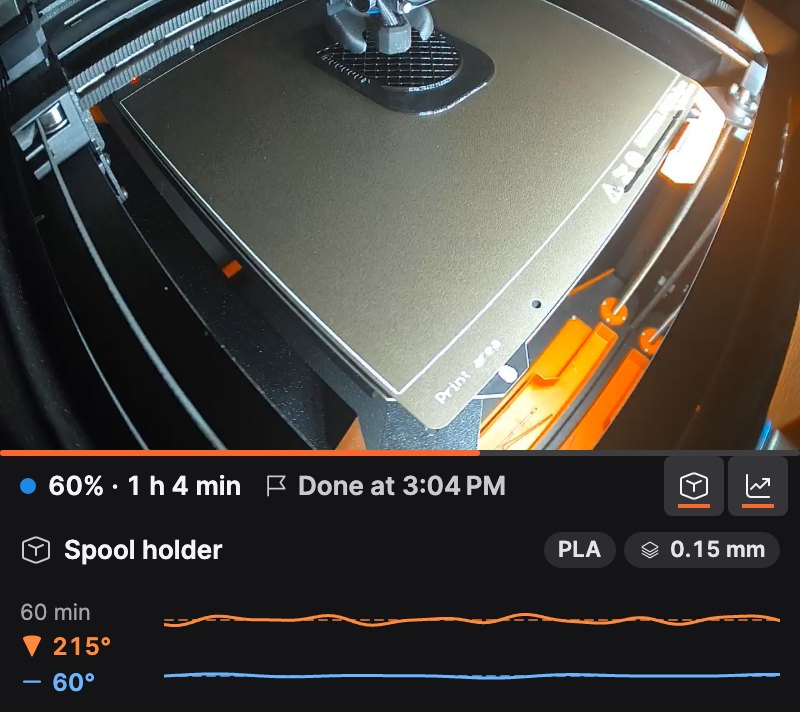
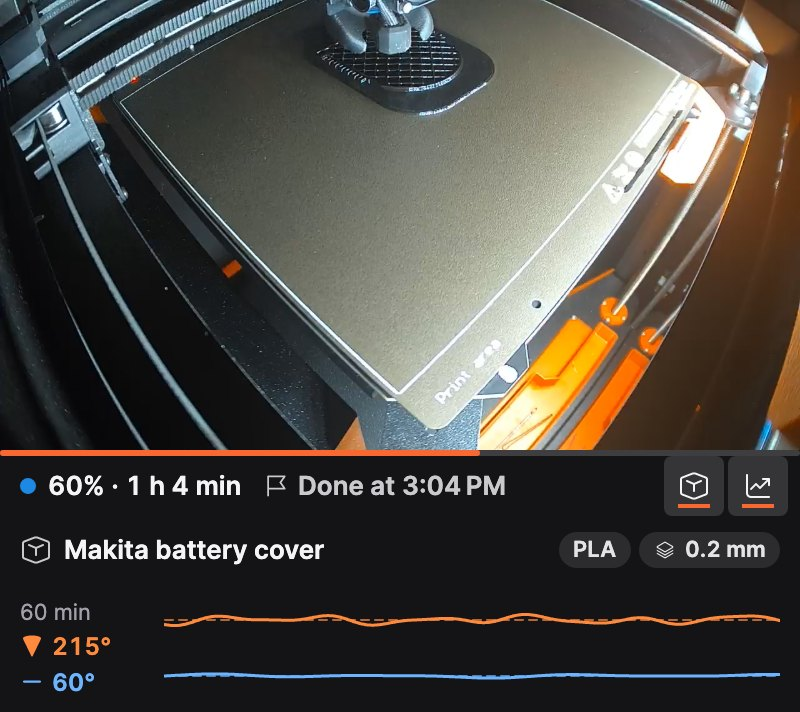
README screenshots: Makita battery cover print, layout mode without Cool-down
- The print of the scenario is the Makita battery cover the recorded camera
  actually shows (makita-battery-cover_0.4n_0.2mm_PLA_COREONE_2h41m.bgcode,
  same in every language), with the simulator's orange flat-disc preview.
- The layout mode image hides the Cool-down widget, which has nothing to show
  while printing (no empty placeholder card).
- Regenerated all images (EN + CS); docs/readme-screenshots.md updated.

Changed region(s): [[0.0625, 0.7416, 0.4062, 0.8034], [0.6875, 0.7416, 0.9062, 0.8034]]

diff --git a/tests/LayerPeek.App.UiTests/Readme/ReadmeScenario.cs b/tests/LayerPeek.App.UiTests/Readme/ReadmeScenario.cs
@@ -64,12 +64,18 @@ internal static class ReadmeScenario
     public static TimeZoneInfo TimeZone => LayerPeek.App.Tests.Diagnostics.FixedClock.Zone;
 
     /// <summary>
-    /// The print file: the simulator's spool holder (PLA, 0.15 mm), a flat part like the one the recorded camera shows
-    /// under the nozzle.
+    /// The print file: the cover of the Makita battery slot, the flat part the recorded camera shows under the nozzle
+    /// (PLA, 0.2 mm). The same file name in every language.
     /// </summary>
-    public static SimulatedFile File { get; } = PrinterSimulation.AllFiles.Single(static file => file.DisplayName.StartsWith("spool-holder", StringComparison.Ordinal));
+    public const string FileName = "makita-battery-cover_0.4n_0.2mm_PLA_COREONE_2h41m.bgcode";
 
-    private static string PreviewPath => "usb/" + File.Name;
+    /// <summary>
+    /// The G-code preview of the print: the one the simulator generates for its first file (a flat disc in Prusa
+    /// orange; the simulator's previews are all flat discs and differ only in colour). No asset of its own.
+    /// </summary>
+    public static SimulatedFile PreviewFile { get; } = PrinterSimulation.AllFiles[0];
+
+    private const string PreviewPath = "usb/MAKITA~1.BGC";
 
     /// <summary>The snapshot of the print for the printer <paramref name="printerId"/> at <see cref="TestPrinters.Now"/>.</summary>
     public static PrinterSnapshot Printing(string printerId, DateTimeOffset? timestamp = null) => new()
@@ -80,7 +86,7 @@ internal static class ReadmeScenario
         Job = new PrintJob
         {
             Id = 42,
-            FileName = File.DisplayName,
+            FileName = FileName,
             ProgressPercent = Progress,
             Elapsed = Elapsed,
             Remaining = Remaining,
@@ -138,7 +144,7 @@ internal static class ReadmeScenario
     public static PrintThumbnails Thumbnails()
     {
         FakePreviewSource source = new();
-        source.Previews[PreviewPath] = PrintPreview.FromPng(PreviewImages.For(File, large: true));
+        source.Previews[PreviewPath] = PrintPreview.FromPng(PreviewImages.For(PreviewFile, large: true));
         return new PrintThumbnails(source, new AvaloniaPrintThumbnailDecoder(), new AvaloniaUiDispatcher(), new Microsoft.Extensions.Time.Testing.FakeTimeProvider(Now), NullLogger<PrintThumbnails>.Instance);
     }
 

diff --git a/tests/LayerPeek.App.UiTests/Readme/ReadmeScreenshots.cs b/tests/LayerPeek.App.UiTests/Readme/ReadmeScreenshots.cs
@@ -167,7 +167,8 @@ public sealed class ReadmeScreenshots(HeadlessSession session)
         session.RunAsync(async scope =>
         {
             ReadmeScenario.UseLanguage(language);
-            await using CameraHarness harness = await CameraHarnessAsync(Normal, HeroLayout);
+            // Without the Cool-down widget: it has nothing to show while printing (an empty placeholder card in the mode).
+            await using CameraHarness harness = await CameraHarnessAsync(Normal, HeroLayout.WithVisible(OverlayWidgetIds.Cooldown, visible: false));
             CameraWindow window = await OpenNormalAsync(harness);
             window.Click(window.Find<Button>("CameraLayoutButton"));
             Dispatcher.UIThread.RunJobs();

diff --git a/docs/readme-screenshots.md b/docs/readme-screenshots.md
@@ -15,9 +15,10 @@ Generátor je volitelný test `tests/LayerPeek.App.UiTests/Readme/ReadmeScreensh
 - Obraz kamery: snímek ze skutečného záznamu kamery Buddy3D (`tests/LayerPeek.Camera.FFmpeg.Tests/Fixtures/buddy3d.h264`,
   1280 × 720), dekódovaný vlastním FFmpeg feedem aplikace z lokálního souboru (bez sítě). Okno ho dostane přes
   testovací `ICameraFeedFactory` (`StillCameraFeedFactory`), tedy stejnou cestou jako živý stream.
-- Data: scénář `ReadmeScenario` – tiskárna „CORE One“ tiskne soubor ze simulátoru (spool holder, PLA) na 60 %,
-  realistické teploty s historií od začátku tisku, náhled z G-code je PNG, který generuje simulátor
-  (`tools/PrusaSimulator`, `PreviewImages`). Žádné IP adresy, sériová čísla ani osobní údaje (adresy jsou host names
+- Data: scénář `ReadmeScenario` – tiskárna „CORE One“ tiskne na 60 % kryt baterie Makita
+  (`makita-battery-cover_0.4n_0.2mm_PLA_COREONE_2h41m.bgcode`, tedy díl, který je na záznamu kamery opravdu vidět),
+  realistické teploty s historií od začátku tisku. Náhled z G-code je PNG, který generuje simulátor
+  (`tools/PrusaSimulator`, `PreviewImages`, náhled jeho prvního souboru: plochý oranžový disk); vlastní asset nemá. Žádné IP adresy, sériová čísla ani osobní údaje (adresy jsou host names
   `*.local`).
 - Čeština: texty aplikace v češtině a formáty čísel a času podle `cs-CZ`; angličtina podle `en-US`. Čas je pevný
   (16. 10. 2026 12:00 UTC, zobrazený v UTC+2), takže výsledek je opakovatelný.
@@ -27,7 +28,7 @@ Generátor je volitelný test `tests/LayerPeek.App.UiTests/Readme/ReadmeScreensh
 | Soubor | Obsah |
 |---|---|
 | `camera-window.jpg` | okno kamery v normálním režimu, rozložení widgetů jako výchozí s teplotami ve velikosti L (hlavní obrázek) |
-| `camera-layout-mode.jpg` | režim rozložení s otevřenou nabídkou velikosti widgetu Teploty |
+| `camera-layout-mode.jpg` | režim rozložení s otevřenou nabídkou velikosti widgetu Teploty; widget Vychladnutí je vypnutý (během tisku by ukazoval jen prázdnou kartu) |
 | `widget-sizes.jpg` | widget Teploty ve velikostech S, M a L (výřezy tří vykreslení vedle sebe) |
 | `camera-mini.jpg` | malý náhled, šířka 400, s rozbaleným řádkem názvu tisku a grafu |
 | `settings-widgets.png` | nastavení, záložka Widgety, vybraný widget Vychladnutí |
